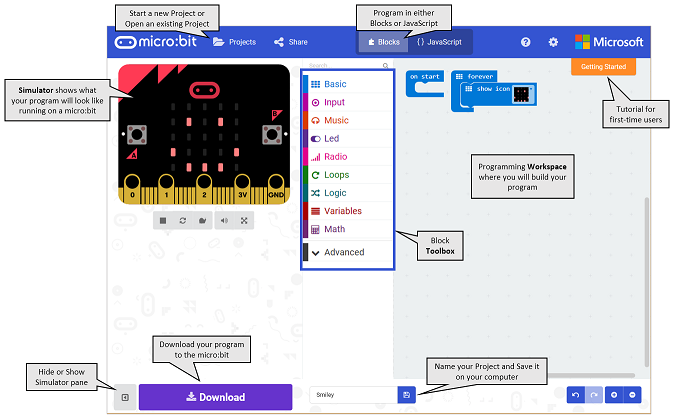
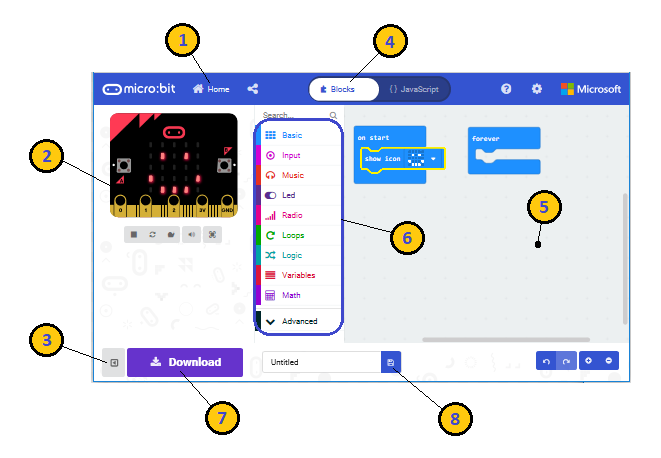
new ide tour image with feature labels (#1586)

diff --git a/docs/courses/csintro/algorithms/activity.md b/docs/courses/csintro/algorithms/activity.md
@@ -23,6 +23,17 @@ Now that you have a plan for your program, in the form of pseudocode, let's star
 
 ![IDE tour](/static/courses/csintro/algorithms/ide-tour.png)
 
+The features highlighted here are:
+
+1. Go to the **Home Screen** to start a new project or open an existing project
+2. **Simulator** shows what your program will look like when running on a @boardname@
+3. **Hide** or **Show** the simulator pane
+4. Program in either **Blocks** or **JavaScript**
+5. Programming **Workspace** where you will build you program
+6. Blocks **Toolbox**
+7. **Download** your program to the @boardname@
+8. Name your project and **Save** it on your computer
+
 ## Event handlers
 When you start a new project, there will be two blue blocks, ‘on start’ and ‘forever’ already in the coding workspace. These two blocks are event handlers.
 

diff --git a/docs/courses/csintro/making/activity.md b/docs/courses/csintro/making/activity.md
@@ -40,6 +40,17 @@ basic.forever(() => {
 
 ![IDE tour](/static/courses/csintro/making/ide-tour.png)
 
+The features highlighted here are:
+
+1. Go to the **Home Screen** to start a new project or open an existing project
+2. **Simulator** shows what your program will look like when running on a @boardname@
+3. **Hide** or **Show** the simulator pane
+4. Program in either **Blocks** or **JavaScript**
+5. Programming **Workspace** where you will build you program
+6. Blocks **Toolbox**
+7. **Download** your program to the @boardname@
+8. Name your project and **Save** it on your computer
+
 The color of the blocks identifies their category. All of the blocks that make up the program above come from the **Basic** Toolbox category, which is light blue.
 
 ## Downloading a MakeCode program to the micro:bit
